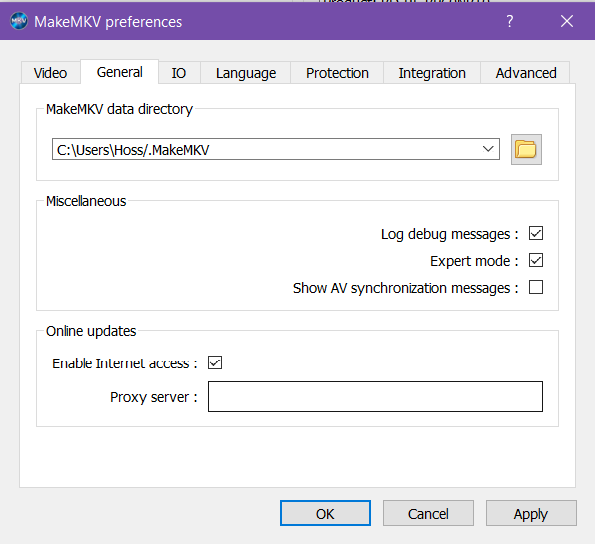
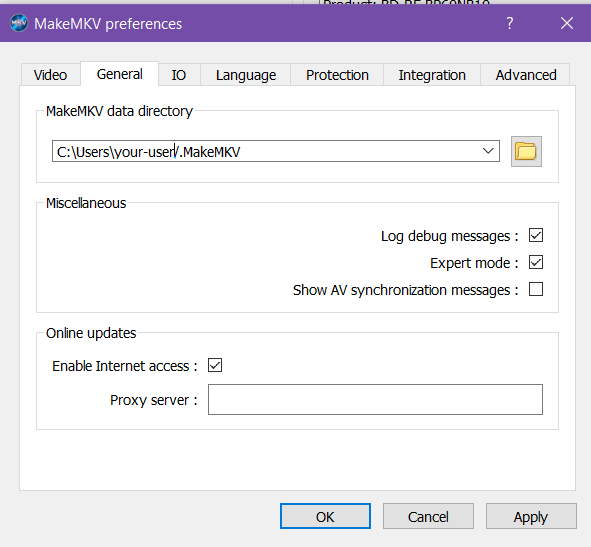
updating documentation format

diff --git a/docs/movie-pipeline/handbrake/compression.md b/docs/movie-pipeline/handbrake/compression.md
@@ -21,19 +21,25 @@ This is very much an optional step, but one that I would highly recommend if you
 2. **Audio**
     * **DVD**
         * ![**Selection Behavior**](../../images/handbrake-audio-behavior.png)
+        *Selection Behavior*
     * **Blu-Ray**
         * ![**Selection Behavior**](../../images/handbrake-audio-behavior.png)
+        *Selection Behavior*
     * **4k**
         * ![**Selection Behavior**](../../images/handbrake-audio-behavior.png)
+        *Selection Behavior*
 3. **Subtitles**
     * **DVD**
         * ![**Selection Behavior**](../../images/handbrake-subtitle-behavior.png)
+        *Selection Behavior*
         * If you have only foreign audio or will always watch with subtitles, I recommend checking the "Burn In" box.
     * **Blu-Ray**
         * ![**Selection Behavior**](../../images/handbrake-subtitle-behavior.png)
+        *Selection Behavior*
         * If you have only foreign audio or will always watch with subtitles, I recommend checking the "Burn In" box.
     * **4k**
         * ![**Selection Behavior**](../../images/handbrake-subtitle-behavior.png)
+        *Selection Behavior*
         * If you have only foreign audio or will always watch with subtitles, I recommend checking the "Burn In" box.
 
 ## Workflow

diff --git a/docs/index.md b/docs/index.md
@@ -4,14 +4,14 @@ Welcome to my personal technical documentation. This wiki serves as a centralize
 
 ## Active Projects
 
-### 🎥 Media Infrastructure Pipeline
+### Media Infrastructure Pipeline
 A robust, automated pipeline for managing high-quality media.
 * **[Emby & NAS Storage](movie-pipeline/emby/setup.md)**: Server deployment and NFS networking.
 * **[MakeMKV Ripping](movie-pipeline/makemkv/ripping.md)**: UHD/4K disc processing.
 * **[Handbrake Compression](movie-pipeline/handbrake/compression.md)**: Optimized H.265 transcoding.
 * **[Remote Access](movie-pipeline/emby/tailscale.md)**: Secure remote connectivity via Tailscale.
 
-### ⚙️ Automation & Scripting
+### Automation & Scripting
 * **[Scripting Repository](scripting/index.md)**: A collection of bash, python, and ansible playbooks used to manage my server environment.
 
 ---

diff --git a/docs/movie-pipeline/makemkv/ripping.md b/docs/movie-pipeline/makemkv/ripping.md
@@ -14,4 +14,6 @@ I use MakeMKV to create a .mkv containter of the film or show I'm wanting. I jus
 
 ## Ripping Reminders
 * ![Select your local machine path to save the file](../../images/makemkv-path.png)
+*Select your local machine path to save the file*
 * ![Check the Enable Internet access box to bring in new decryption keys](../../images/makemkv-internet.png)
+*Check the Enable Internet access box to bring in new decryption keys*